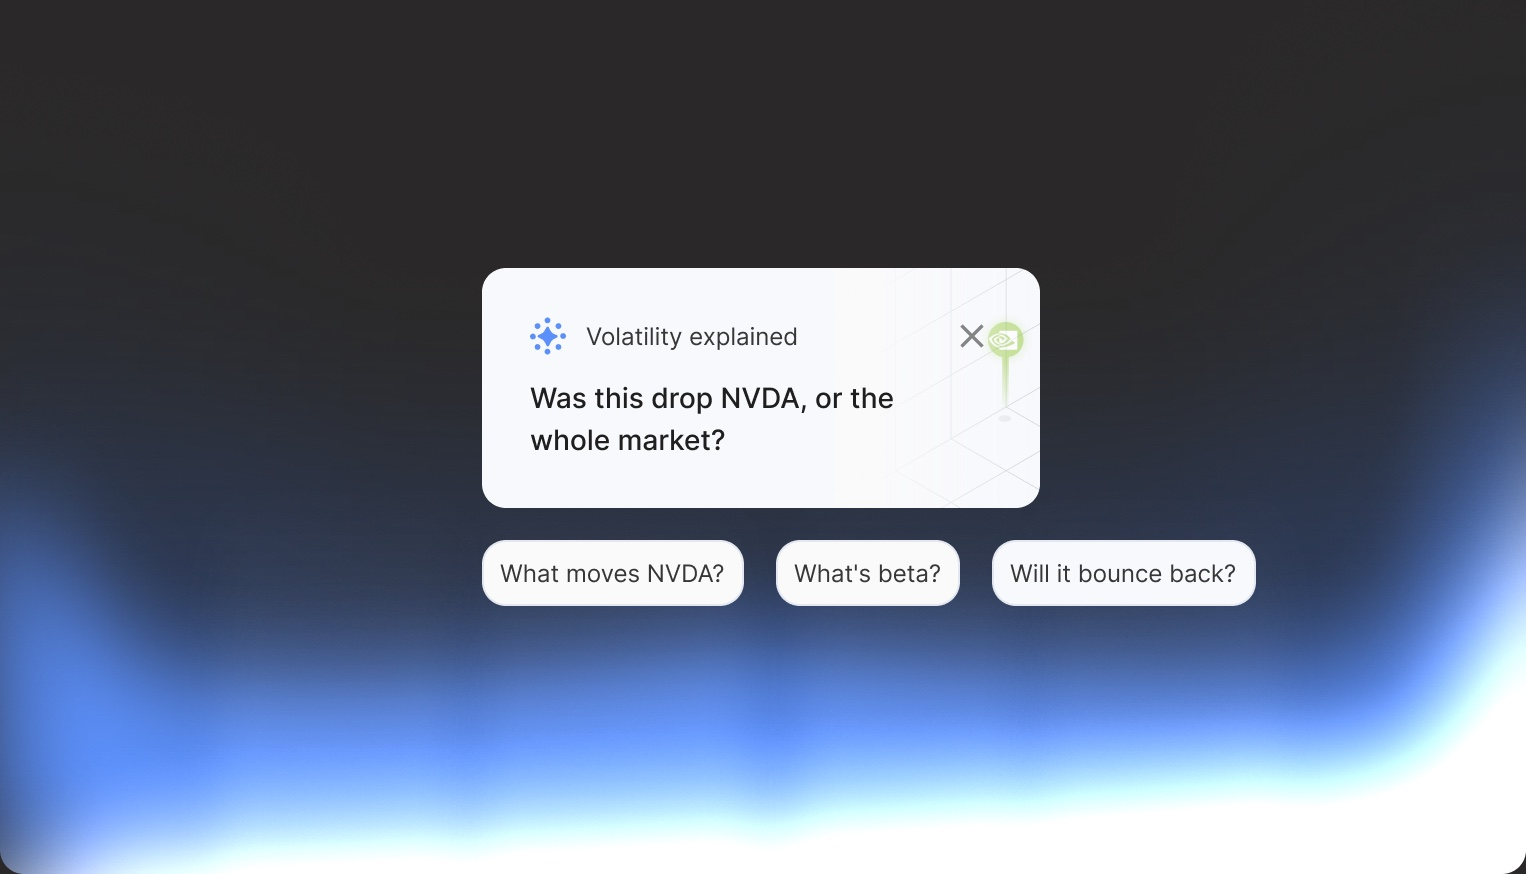
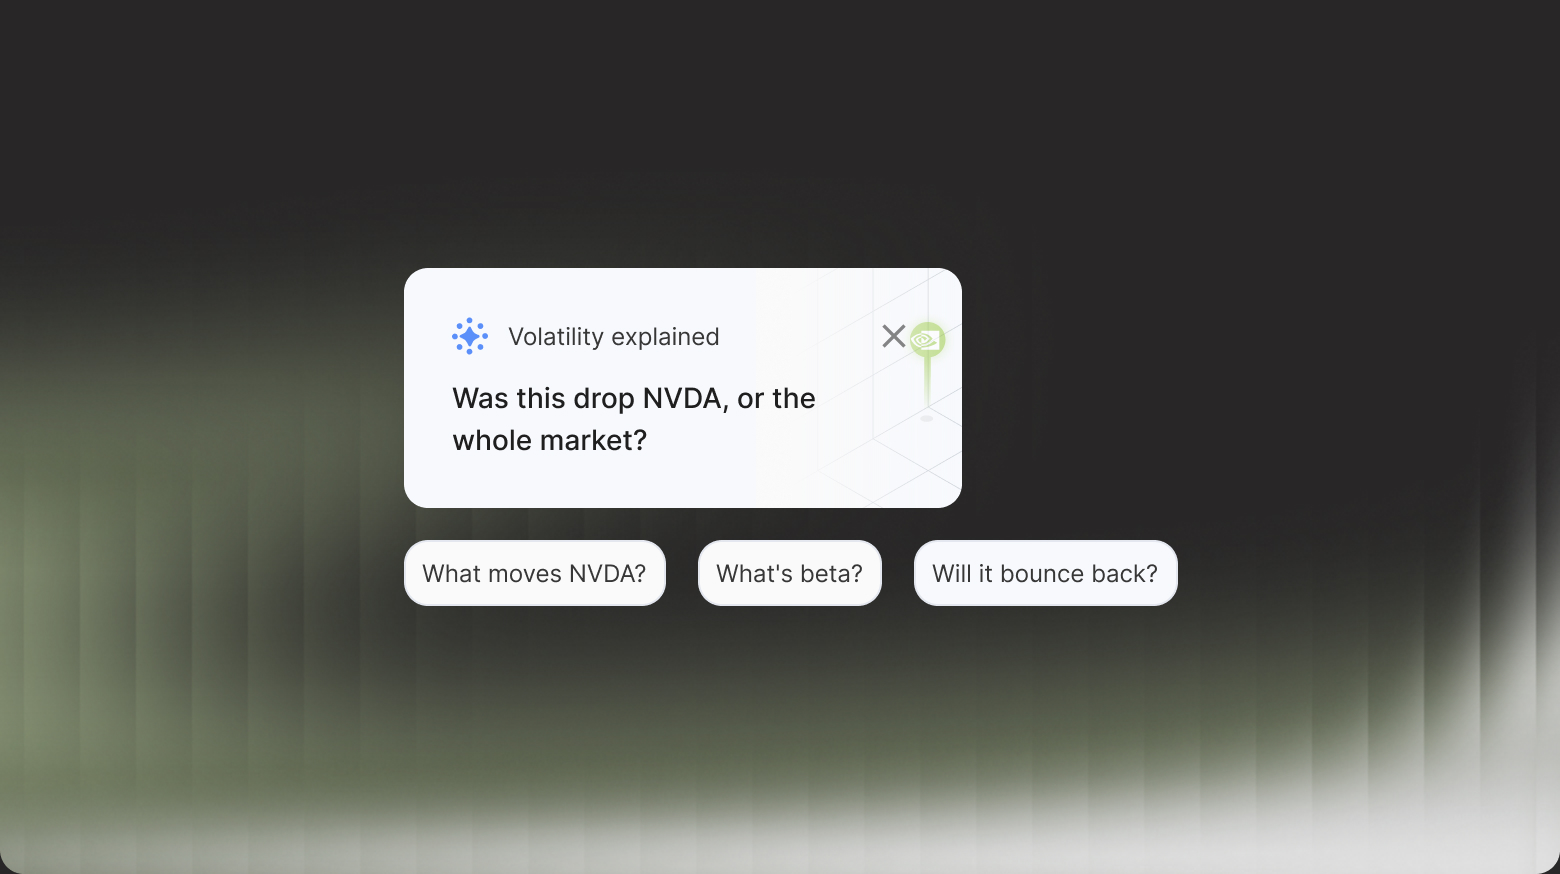
Carousel: all four cards from Figma (node 64:4687), 780×437 ratio

diff --git a/components/DarkHome.tsx b/components/DarkHome.tsx
@@ -20,7 +20,7 @@ export type HomeItem = {
 /* ---- Tuning knobs ------------------------------------------------------- */
 const INTRO_SCROLL = 0.6;     // screen-heights of scrolling to clear the nav + intro and bring the cards to centre
 const SCROLL_PER_CARD = 0.8;  // screen-heights of scrolling to move one card
-const CARD_RATIO = 763 / 437; // design card (Figma node 61:2831)
+const CARD_RATIO = 780 / 437; // design cards (Figma node 64:4687)
 const FRAME = 12;             // frame margin around the glass on the focused card (px at design size)
 const CARD_TOP_GAP = 48;      // space between the intro and the card at the start (px; card bottom may be cut off)
 const CARD_Y_FOCUS = 0.42;    // card centre once the intro has cleared (room for the caption below)
@@ -39,7 +39,7 @@ const clamp = (v: number, a: number, b: number) => Math.min(b, Math.max(a, v));
  * #373636 margin, stroke and smaller inner radius used for the focused card.
  */
 function drawCard(ctx: CanvasRenderingContext2D, img: HTMLImageElement, x: number, y: number, w: number, h: number, frame: number, cover?: HTMLImageElement) {
-  const k = w / 763;
+  const k = w / 780;
   if (frame > 0.01) {
     ctx.save();
     ctx.globalAlpha = frame;

diff --git a/app/globals.css b/app/globals.css
@@ -572,8 +572,8 @@ html { background: var(--mist); }
 /* Reduced motion: framed glass cards in a plain sideways row */
 .dhome.is-static { height: auto; min-height: 100svh; padding-bottom: 80px; }
 .dhome-row { display: flex; gap: 32px; overflow-x: auto; padding: 48px var(--gutter) 0; }
-.dcard-static { flex: none; width: min(763px, 84vw); display: flex; flex-direction: column; gap: 14px; }
-.dcard { --k: 1; position: relative; width: 100%; aspect-ratio: 763 / 437; padding: 12px; border-radius: 12px; background: var(--paper-2); border: 1px solid rgba(255, 255, 255, 0.18); }
+.dcard-static { flex: none; width: min(780px, 84vw); display: flex; flex-direction: column; gap: 14px; }
+.dcard { --k: 1; position: relative; width: 100%; aspect-ratio: 780 / 437; padding: 12px; border-radius: 12px; background: var(--paper-2); border: 1px solid rgba(255, 255, 255, 0.18); }
 .dcard-inner { position: relative; width: 100%; height: 100%; border-radius: 8px; overflow: hidden; }
 .dcard-fluted { left: -20.76%; top: 0; width: 141.52%; height: 140.63%; }
 .dcard-cover { display: block; width: 100%; height: 100%; object-fit: cover; }
